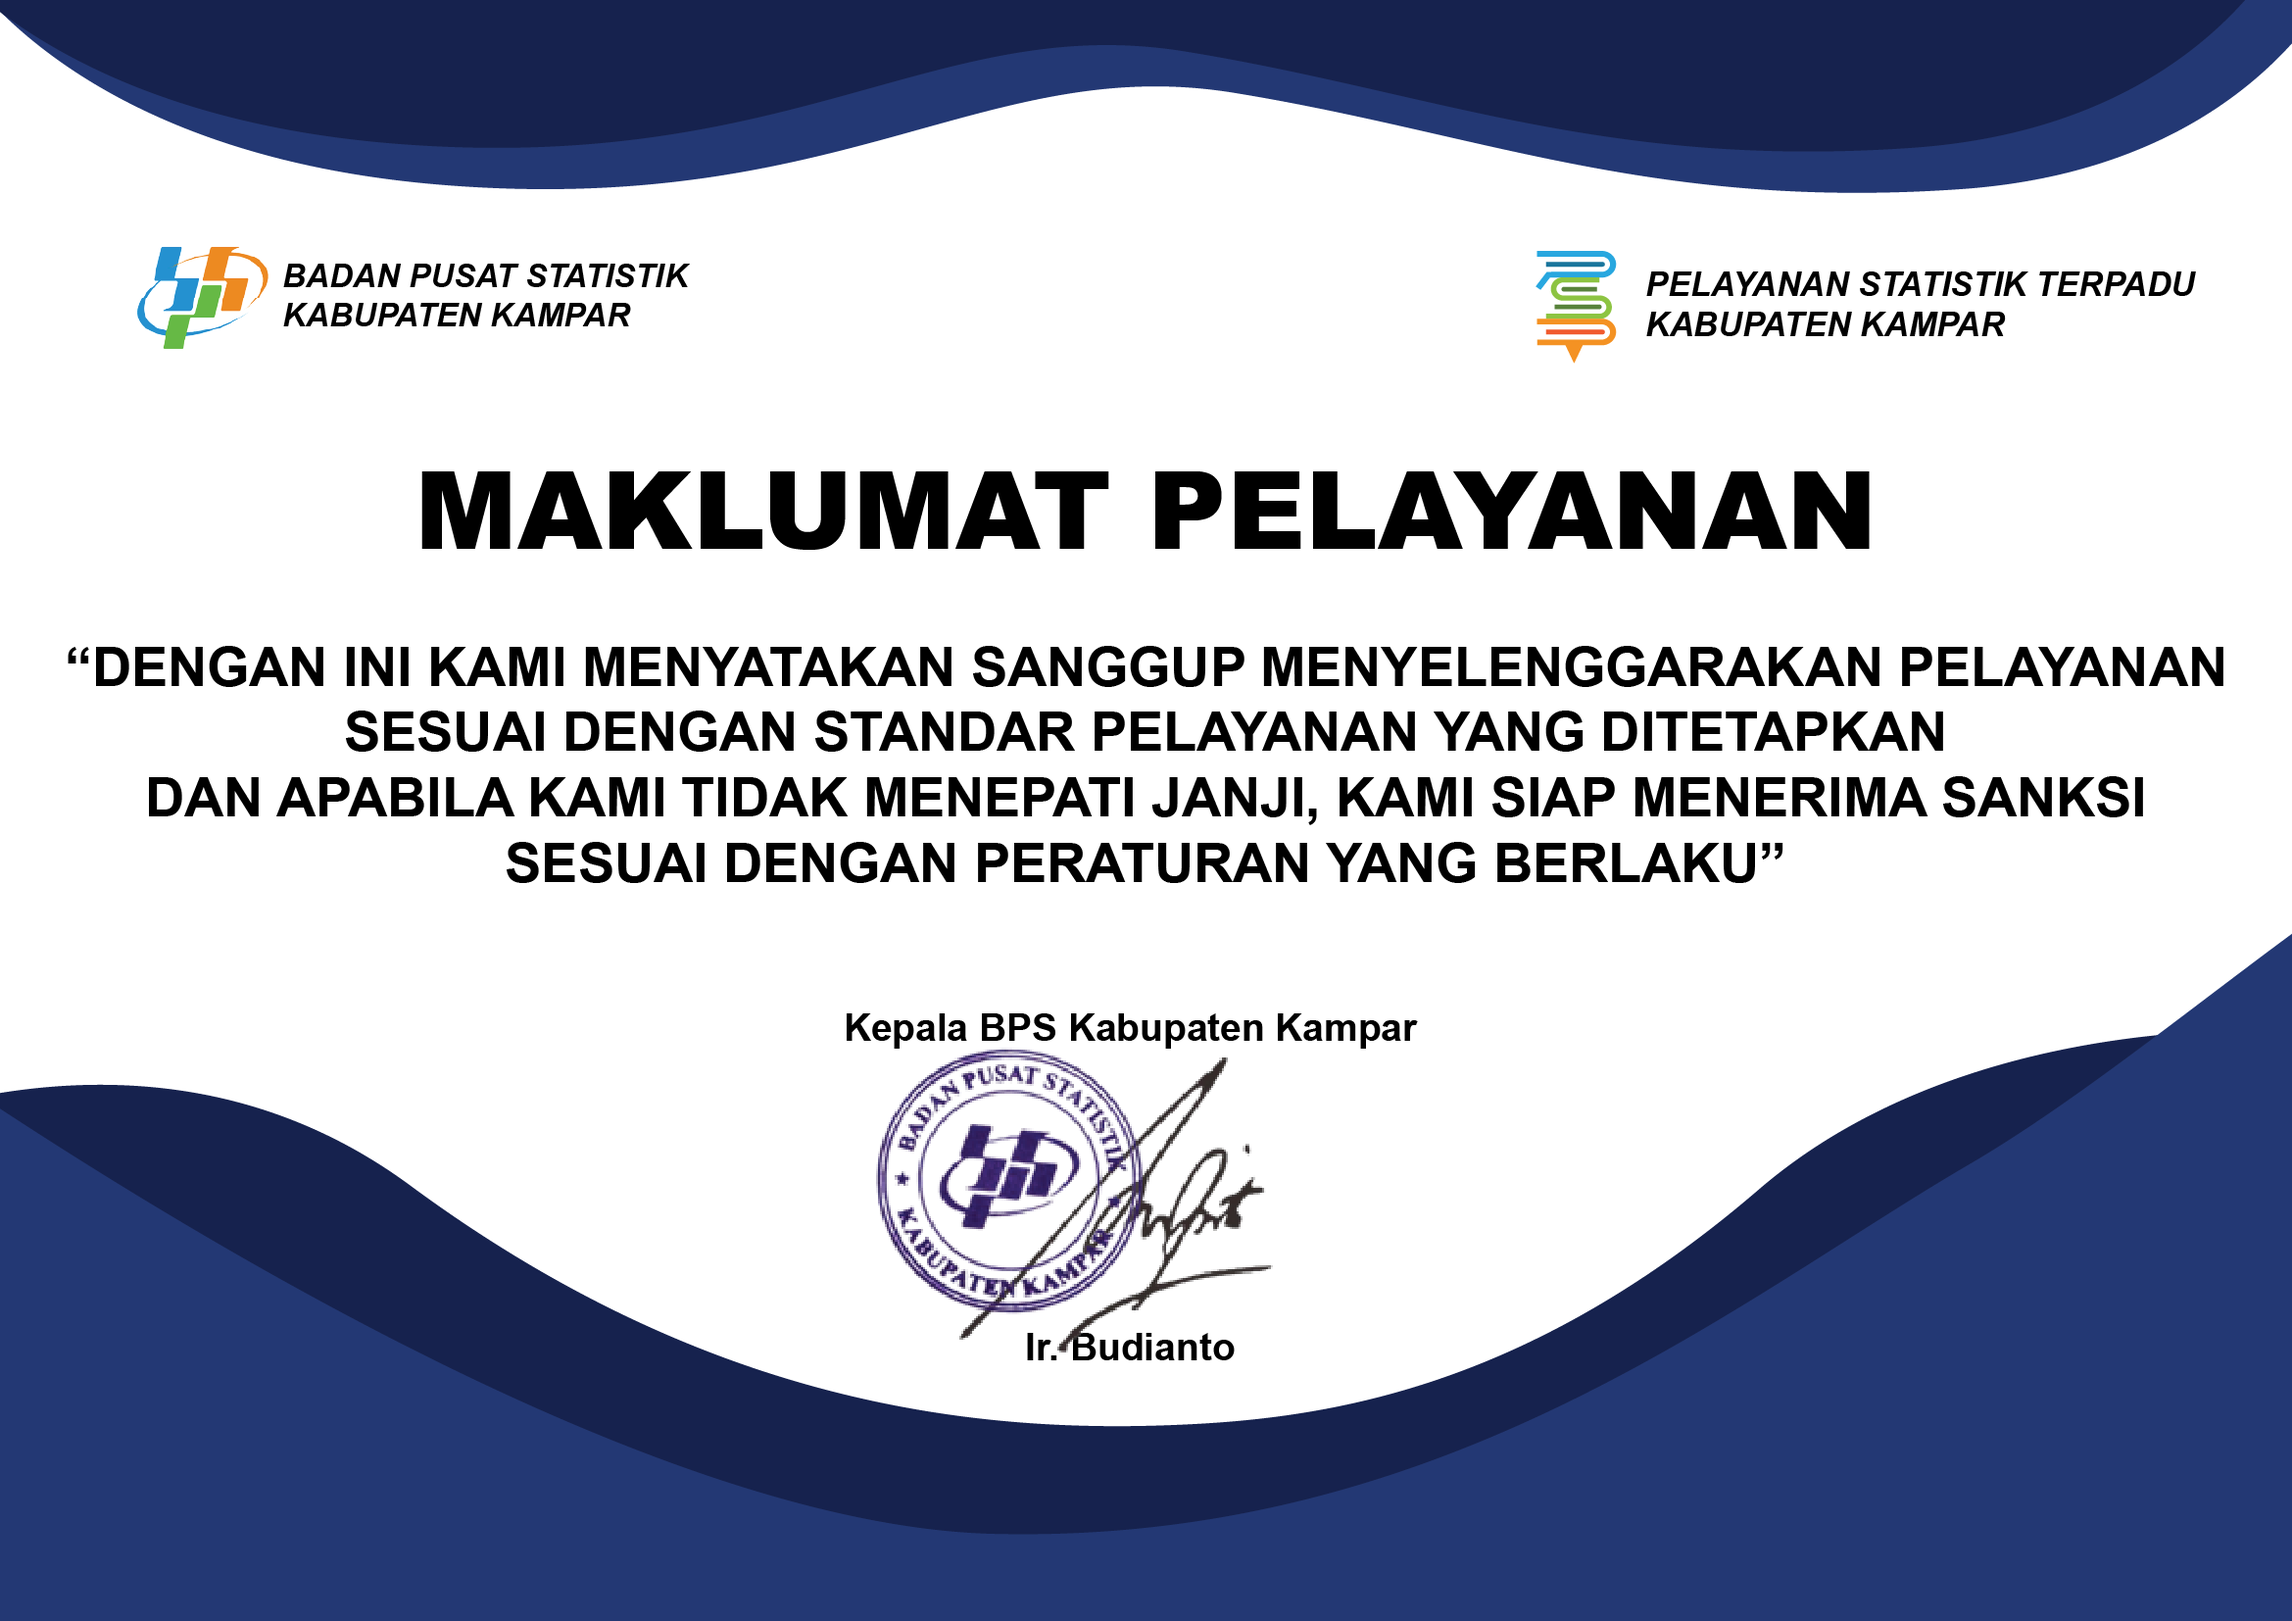
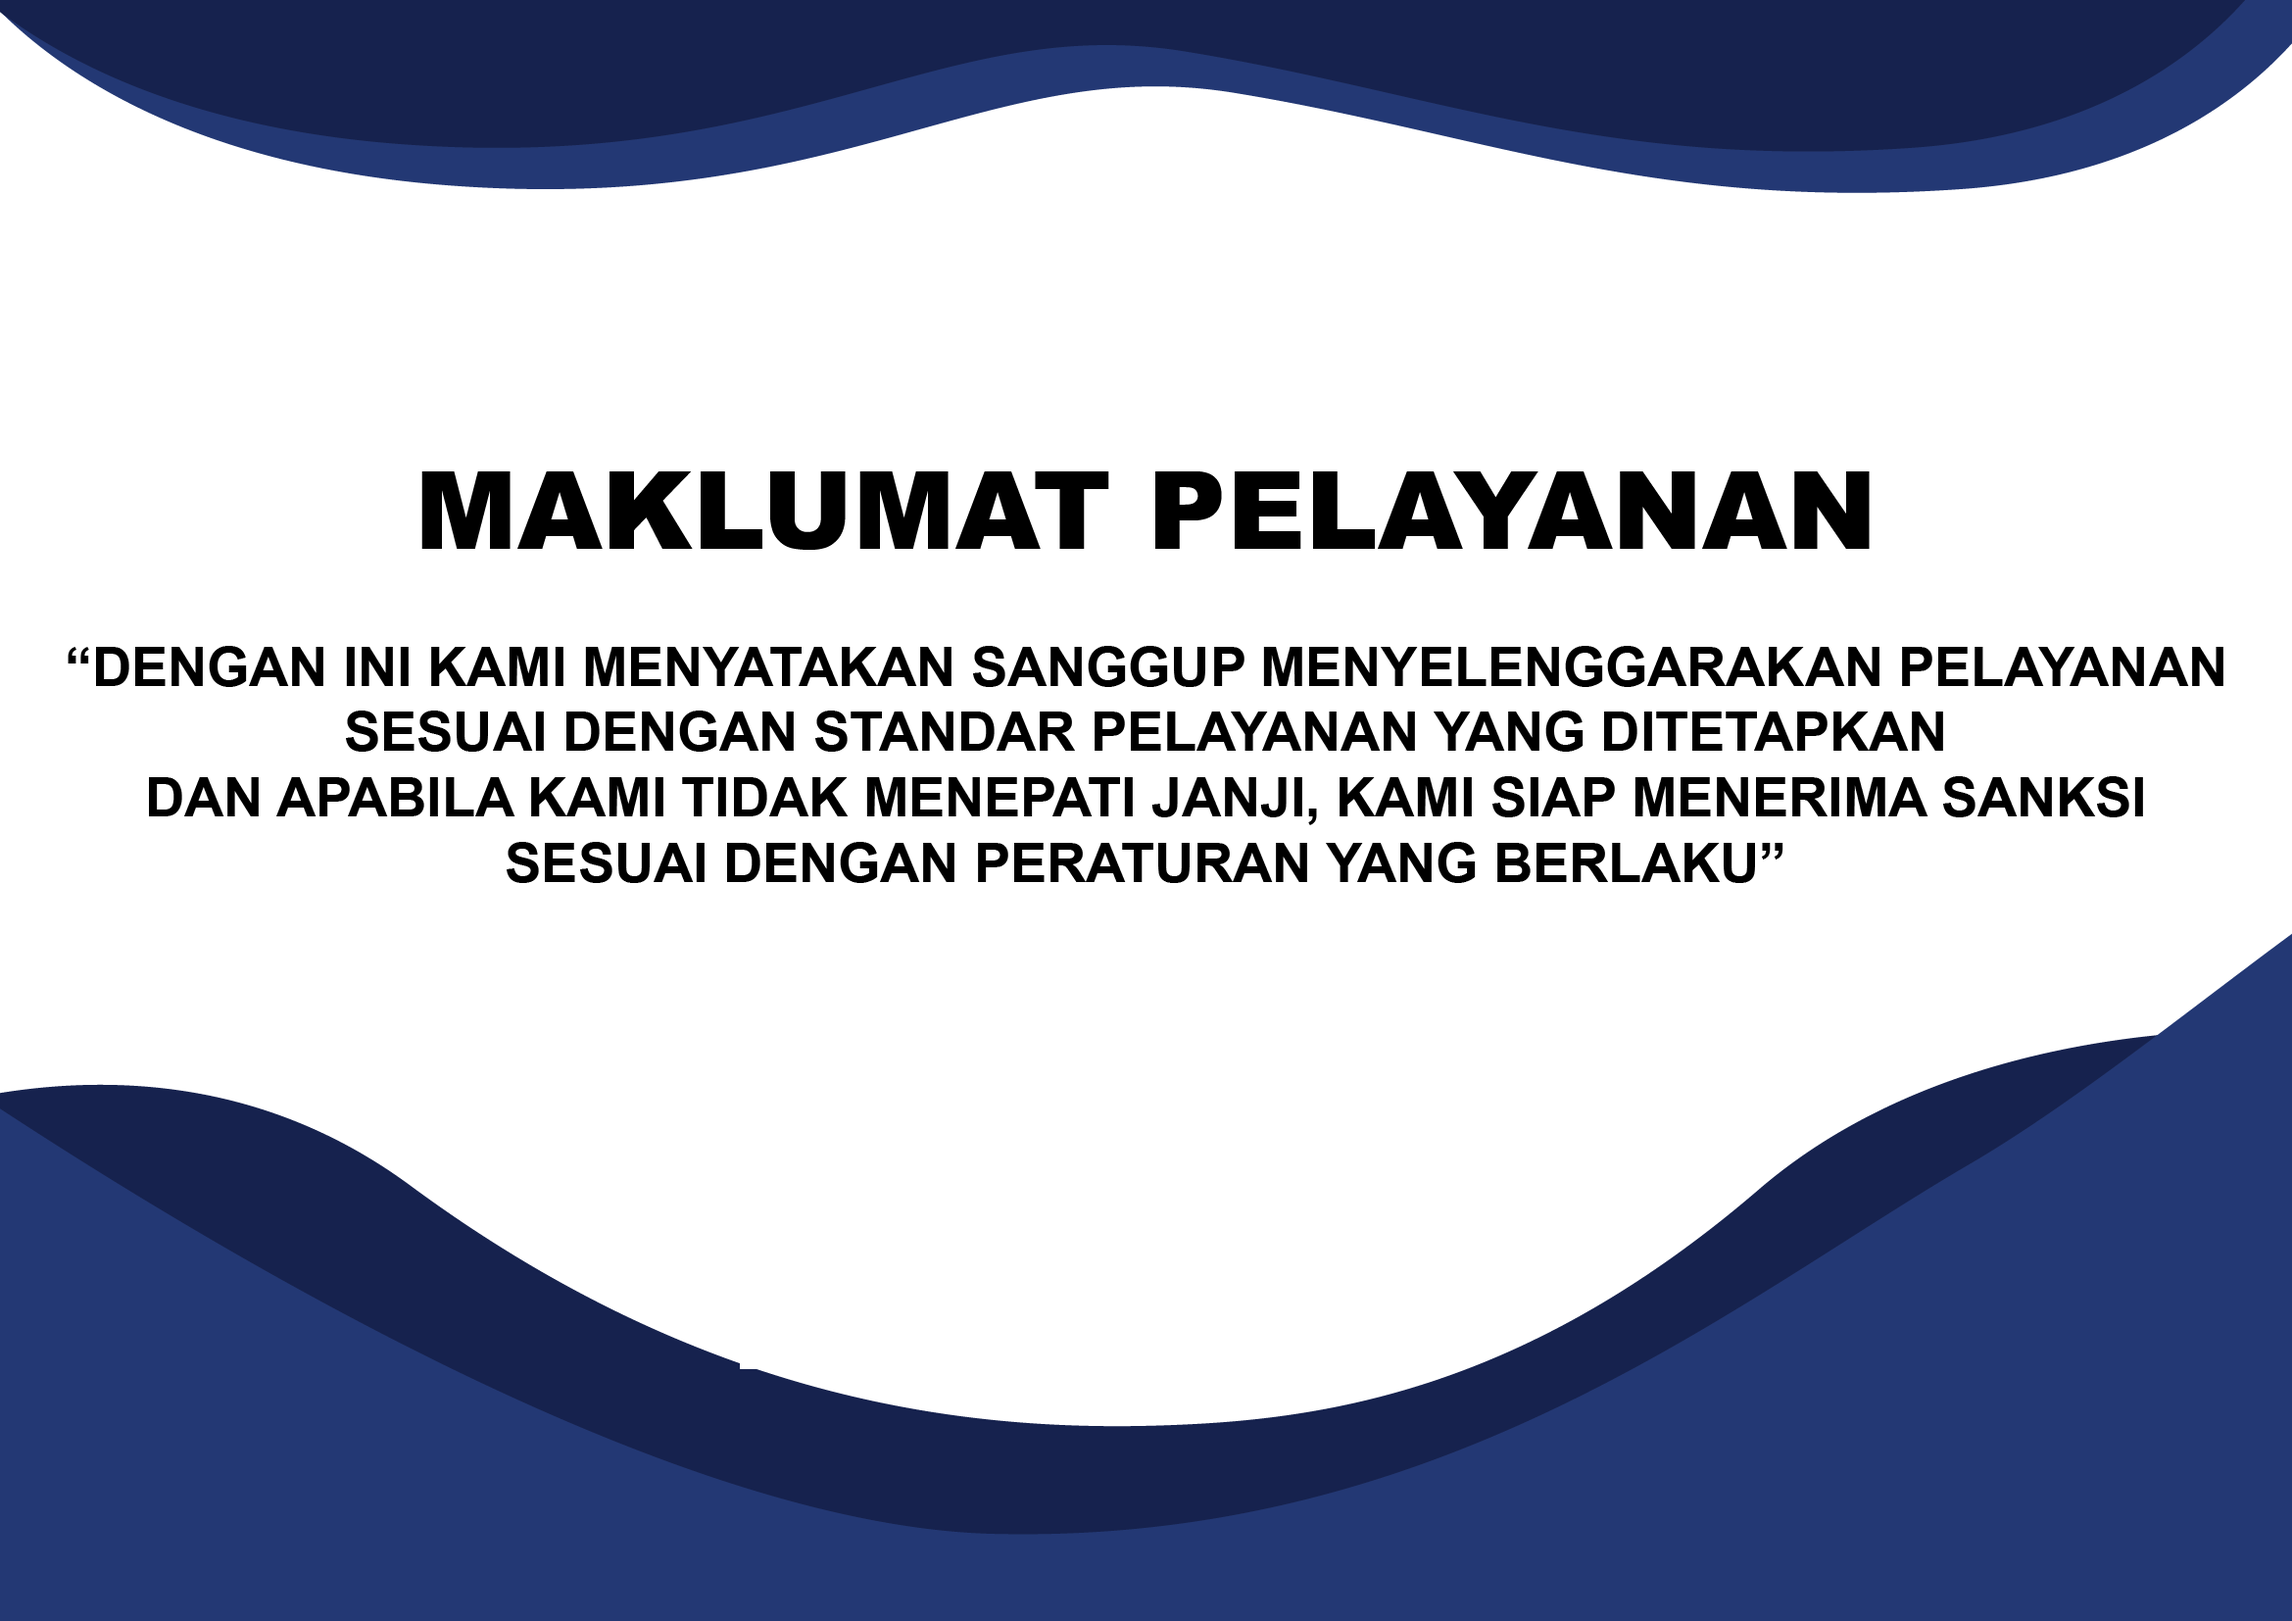
remove identitas satker

Changed region(s): [[0.3745, 0.6167, 0.6242, 0.8634], [0.6554, 0.1542, 0.9675, 0.2158], [0.0624, 0.1542, 0.3121, 0.2158]]

diff --git a/ppd/app/Views/frontend/template.php b/ppd/app/Views/frontend/template.php
@@ -132,15 +132,15 @@ $page_controller = isset($page_controller) ? $page_controller : '';
                 <div class="col-lg-4">
                     <h6 class="mb-3 text-white" style="text-transform:uppercase;">Pelayanan Statistik Terpadu (PST)</h6>
                     <p>
-                        Jl. Jenderal Sudirman Bangkinang
+                        Jl. bla bla bla
                     </p>
                     <div class="row mb-1">
                         <div class="col-auto pr-0"><i class="fa fa-phone"></i></div>
-                        <div class="col">(0762) 323443</div>
+                        <div class="col">(000) 123456</div>
                     </div>
                     <div class="row mb-1">
                         <div class="col-auto pr-0"><i class="fa fa-envelope"></i></div>
-                        <div class="col">ipds1406@bps.go.id</div>
+                        <div class="col">pst@bps.go.id</div>
                     </div>
                     <div class="row mb-3">
                         <div class="col-auto pr-0"><i class="fa fa-map-marked"></i></div>
